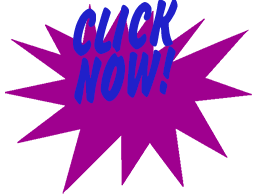
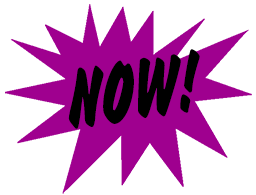
==> refinements to 'burst' -- sign test fallen off, discarded etc

Changed region(s): [[0.25, 0.0, 0.7812, 0.6769]]

diff --git a/pieces/iconscroller.py b/pieces/iconscroller.py
@@ -79,6 +79,10 @@ def init() :
 	#********* HARD CODING VALUES  ***********************
 	config.bgBackGroundColor = (0,0,0,0)
 	config.arrowBgBackGroundColor = (0,0,0,200)
+	config.imageGlitchSize = 10
+	config.overlayGlitchRate = .1
+	config.overlayResetRate = .1
+	config.overlayGlitchSize = 10
 
 	config.canvasImage = Image.new("RGBA", (config.canvasWidth * 10, config.canvasHeight))
 	config.canvasImageDraw = ImageDraw.Draw(config.canvasImage)	
@@ -154,7 +158,25 @@ def init() :
 		arg = "."+config.overLayImage
 		config.loadedImage = Image.open(arg , "r")
 		config.loadedImage.load()
+		config.loadedImageCopy  = config.loadedImage.copy()
 
+def glitchBox(img, r1 = -10, r2 = 10) :
+	apparentWidth = img.size[1]
+	apparentHeight = img.size[0]
+	dy = int(random.uniform(r1,r2))
+	dx = int(random.uniform(1, config.imageGlitchSize))
+	dx = 0
+
+	# really doing "vertical" or y-axis glitching
+	# block height is uniform but width is variable
+
+	sectionWidth = int(random.uniform(2, apparentHeight - dx))
+	sectionHeight = apparentWidth
+
+	# 95% of the time they dance together as mirrors
+	if(random.random() < .97) :
+		cp1 = img.crop((dx, 0, dx + sectionWidth, sectionHeight))
+		img.paste( cp1, (int(0 + dx), int(0 + dy)))	
 
 def remakeMessage(imageRef, messageString = "FooBar", direction = 1) :
 	messageString = config.msg1 if random.random() < .5 else config.msg2
@@ -481,6 +503,10 @@ def iterate() :
 		config.workImage.paste(segment, (0, n * config.bandHeight))
 
 	if(config.useOverLayImage  ==  True) :
+		if(random.random() < config.overlayGlitchRate ) :
+			glitchBox(config.loadedImage, -config.overlayGlitchSize, config.overlayGlitchSize)
+		if(random.random() < config.overlayResetRate ) :
+			config.loadedImage.paste(config.loadedImageCopy)
 		config.workImage.paste(config.loadedImage, (config.overLayXPos, config.overLayYPos), config.loadedImage)
 	config.render(config.workImage, 0,0)
 
